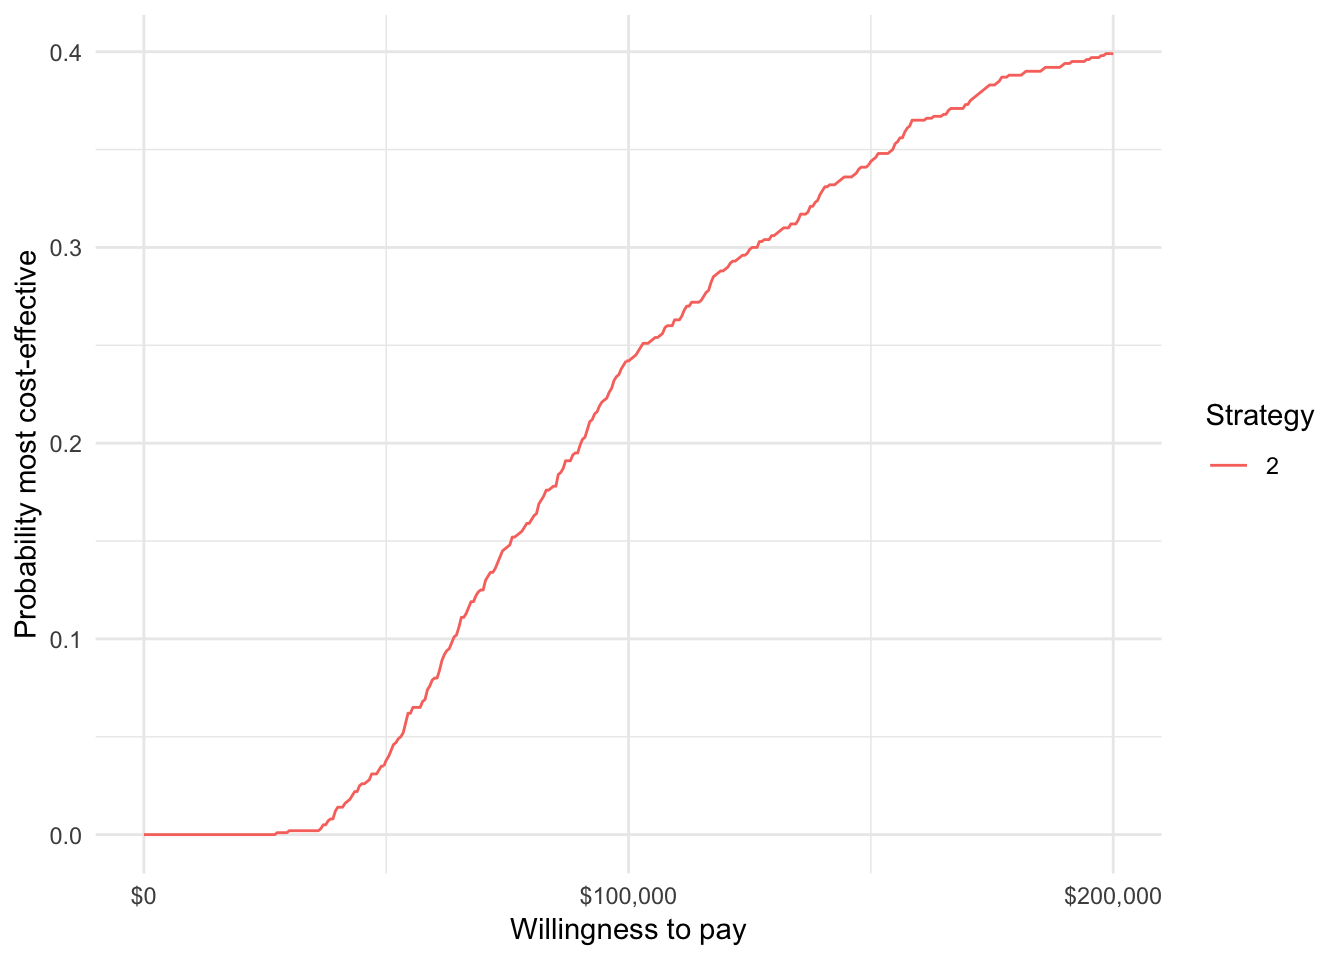
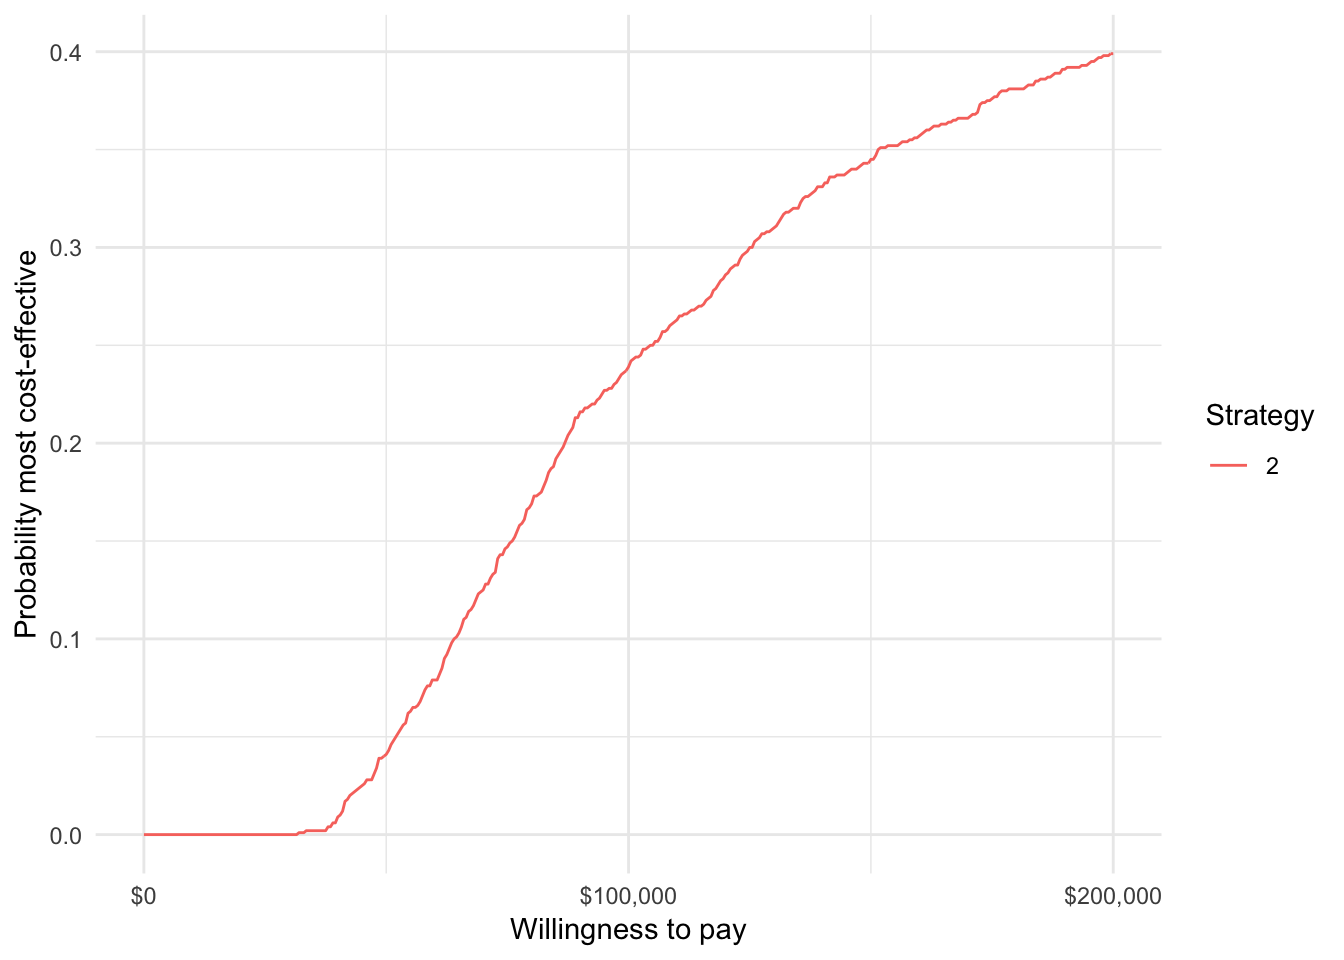
Update URLs in vignettes

diff --git a/docs/articles/intro.html b/docs/articles/intro.html
@@ -87,7 +87,7 @@
       <h1>Introduction to <code>hesim</code>
 </h1>
             
-            <h4 class="date">2019-03-24</h4>
+            <h4 class="date">2019-03-26</h4>
       
       <small class="dont-index">Source: <a href="https://github.com/InnovationValueInitiative/hesim/blob/master/vignettes/intro.Rmd"><code>vignettes/intro.Rmd</code></a></small>
       <div class="hidden name"><code>intro.Rmd</code></div>
@@ -160,17 +160,17 @@ hesim_dat &lt;-<span class="st"> </span><span class="kw"><a href="../reference/h
 ## 
 ## $patients
 ##       patient_id      age female
-##    1:          1 49.49352      1
-##    2:          2 64.68441      1
-##    3:          3 39.82628      0
-##    4:          4 55.91968      0
-##    5:          5 40.66639      0
+##    1:          1 42.76025      1
+##    2:          2 37.56509      0
+##    3:          3 32.25874      1
+##    4:          4 50.32178      1
+##    5:          5 42.50952      0
 ##   ---                           
-##  996:        996 50.70210      1
-##  997:        997 44.23524      1
-##  998:        998 61.75899      0
-##  999:        999 55.09298      1
-## 1000:       1000 52.07646      0
+##  996:        996 46.45157      0
+##  997:        997 48.18178      0
+##  998:        998 52.35091      0
+##  999:        999 41.31097      0
+## 1000:       1000 51.02729      0
 ## 
 ## $states
 ##    state_id state_name
@@ -220,7 +220,7 @@ hesim_dat &lt;-<span class="st"> </span><span class="kw"><a href="../reference/h
 </tr>
 </tbody>
 </table>
-<p>The easiest way to parameterize a disease model is by fitting a statistical model using <code>R</code>. For example, survival models for PSMs and multi-state models for iCTSTMs can be fit using <code><a href="https://www.rdocumentation.org/packages/flexsurv/topics/flexsurvreg">flexsurvreg()</a></code>. A multi-state model can either be fit as a single model with a joint likelihood (a <code>flexsurvreg</code> object) or as a list of transition-specific models (a <code>flexsurvreg_list</code> object) (see <a href="https://cran.r-project.org/web/packages/flexsurv/vignettes/flexsurv.pdf">Section 6 from the flexsurv vignette</a> for details). Likewise, a list of survival models for a PSM are stored as a <code>flexsurvreg_list</code> object.</p>
+<p>The easiest way to parameterize a disease model is by fitting a statistical model using <code>R</code>. For example, survival models for PSMs and multi-state models for iCTSTMs can be fit using <code><a href="https://www.rdocumentation.org/packages/flexsurv/topics/flexsurvreg">flexsurvreg()</a></code>. A multi-state model can either be fit as a single model with a joint likelihood (a <code>flexsurvreg</code> object) or as a list of transition-specific models (a <code>flexsurvreg_list</code> object) (see <a href="https://CRAN.R-project.org/package=flexsurv/vignettes/flexsurv.pdf">Section 6 from the flexsurv vignette</a> for details). Likewise, a list of survival models for a PSM are stored as a <code>flexsurvreg_list</code> object.</p>
 <p>In other cases, the disease models will not be fit directly with R (for instance, when performing a network meta-analysis). In these cases, the estimates of a disease model can be directly stored in objects prefixed by “params_”. When a single survival model or a multi-state model with a joint likelihood is fit, parameters are stored in <code>params_surv</code> objects; when multiple independent survival or multi-state models with transition specific fits are used, parameters are stored in <code>params_surv_list</code> objects.</p>
 <p>We will illustrate using the first approach, by estimating a multi-state model with a joint likelihood using <code><a href="https://www.rdocumentation.org/packages/flexsurv/topics/flexsurvreg">flexsurvreg()</a></code>.</p>
 <div class="sourceCode"><pre class="sourceCode r"><code class="sourceCode r"><span class="kw"><a href="https://www.rdocumentation.org/packages/base/topics/library">library</a></span>(<span class="st">"flexsurv"</span>)
@@ -317,12 +317,12 @@ medcost_tbl &lt;-<span class="st"> </span><span class="kw"><a href="../reference
                         <span class="dt">by =</span> <span class="kw"><a href="https://www.rdocumentation.org/packages/base/topics/c">c</a></span>(<span class="st">"strategies"</span>, <span class="st">"patients"</span>, <span class="st">"transitions"</span>))
 <span class="kw"><a href="https://www.rdocumentation.org/packages/utils/topics/head">head</a></span>(transmod_data)</code></pre></div>
 <pre><code>##    strategy_id patient_id transition_id      age female from to from_name
-## 1:           1          1             1 49.49352      1    1  2   Healthy
-## 2:           1          1             2 49.49352      1    1  3   Healthy
-## 3:           1          1             3 49.49352      1    2  1      Sick
-## 4:           1          1             4 49.49352      1    2  3      Sick
-## 5:           1          2             1 64.68441      1    1  2   Healthy
-## 6:           1          2             2 64.68441      1    1  3   Healthy
+## 1:           1          1             1 42.76025      1    1  2   Healthy
+## 2:           1          1             2 42.76025      1    1  3   Healthy
+## 3:           1          1             3 42.76025      1    2  1      Sick
+## 4:           1          1             4 42.76025      1    2  3      Sick
+## 5:           1          2             1 37.56509      0    1  2   Healthy
+## 6:           1          2             2 37.56509      0    1  3   Healthy
 ##    to_name trans
 ## 1:    Sick     1
 ## 2:    Dead     2
@@ -397,43 +397,43 @@ costmods &lt;-<span class="st"> </span><span class="kw"><a href="https://www.rdo
 <div class="sourceCode"><pre class="sourceCode r"><code class="sourceCode r">ictstm<span class="op">$</span><span class="kw">sim_disease</span>()
 <span class="kw"><a href="https://www.rdocumentation.org/packages/utils/topics/head">head</a></span>(ictstm<span class="op">$</span>disprog_)</code></pre></div>
 <pre><code>##    sample strategy_id patient_id from to final time_start time_stop
-## 1:      1           1          1    1  2     0   0.000000  4.733377
-## 2:      1           1          1    2  1     0   4.733377  6.025118
-## 3:      1           1          1    1  2     0   6.025118 11.333617
-## 4:      1           1          1    2  3     1  11.333617 12.630350
-## 5:      1           1          2    1  2     0   0.000000  1.865386
-## 6:      1           1          2    2  1     0   1.865386  2.659183</code></pre>
+## 1:      1           1          1    1  2     0   0.000000 13.707582
+## 2:      1           1          1    2  1     0  13.707582 16.652392
+## 3:      1           1          1    1  3     1  16.652392 26.069791
+## 4:      1           1          2    1  2     0   0.000000  2.030759
+## 5:      1           1          2    2  1     0   2.030759  3.300109
+## 6:      1           1          2    1  2     0   3.300109 17.133846</code></pre>
 <p>The disease trajectory can be summarized with <code>$sim_stateprobs()</code>.</p>
 <div class="sourceCode"><pre class="sourceCode r"><code class="sourceCode r">ictstm<span class="op">$</span><span class="kw">sim_stateprobs</span>(<span class="dt">t =</span> <span class="kw"><a href="https://www.rdocumentation.org/packages/base/topics/c">c</a></span>(<span class="dv">0</span><span class="op">:</span><span class="dv">10</span>))
 <span class="kw"><a href="https://www.rdocumentation.org/packages/utils/topics/head">head</a></span>(ictstm<span class="op">$</span>stateprobs_)</code></pre></div>
 <pre><code>##    sample strategy_id state_id t  prob
 ## 1:      1           1        1 0 1.000
-## 2:      1           1        1 1 0.871
-## 3:      1           1        1 2 0.758
-## 4:      1           1        1 3 0.687
-## 5:      1           1        1 4 0.621
-## 6:      1           1        1 5 0.577</code></pre>
+## 2:      1           1        1 1 0.875
+## 3:      1           1        1 2 0.784
+## 4:      1           1        1 3 0.717
+## 5:      1           1        1 4 0.661
+## 6:      1           1        1 5 0.600</code></pre>
 <p>We can then compute costs and QALYs (using a discount rate of 3 percent).</p>
 <div class="sourceCode"><pre class="sourceCode r"><code class="sourceCode r"><span class="co"># QALYs</span>
 ictstm<span class="op">$</span><span class="kw">sim_qalys</span>(<span class="dt">dr =</span> .<span class="dv">03</span>)
 <span class="kw"><a href="https://www.rdocumentation.org/packages/utils/topics/head">head</a></span>(ictstm<span class="op">$</span>qalys_)</code></pre></div>
-<pre><code>##    sample strategy_id state_id   dr    qalys      lys
-## 1:      1           1        1 0.03 7.644277 8.871848
-## 2:      1           1        2 0.03 1.679980 1.862931
-## 3:      1           2        1 0.03 8.004139 9.289499
-## 4:      1           2        2 0.03 1.419479 1.574061
-## 5:      2           1        1 0.03 6.054470 9.108025
-## 6:      2           1        2 0.03 1.551556 1.945530</code></pre>
+<pre><code>##    sample strategy_id state_id   dr    qalys       lys
+## 1:      1           1        1 0.03 3.983777  8.540493
+## 2:      1           1        2 0.03 1.757279  1.757279
+## 3:      1           2        1 0.03 4.742779 10.167656
+## 4:      1           2        2 0.03 1.365992  1.365992
+## 5:      2           1        1 0.03 6.316758  9.284137
+## 6:      2           1        2 0.03 1.974544  1.976647</code></pre>
 <div class="sourceCode"><pre class="sourceCode r"><code class="sourceCode r"><span class="co"># Costs</span>
 ictstm<span class="op">$</span><span class="kw">sim_costs</span>(<span class="dt">dr =</span> .<span class="dv">03</span>)
 <span class="kw"><a href="https://www.rdocumentation.org/packages/utils/topics/head">head</a></span>(ictstm<span class="op">$</span>costs_)</code></pre></div>
-<pre><code>##    sample strategy_id state_id   dr category     costs
-## 1:      1           1        1 0.03    drugs 44359.241
-## 2:      1           1        2 0.03    drugs  9314.656
-## 3:      1           2        1 0.03    drugs 92894.991
-## 4:      1           2        2 0.03    drugs 15740.614
-## 5:      2           1        1 0.03    drugs 45540.125
-## 6:      2           1        2 0.03    drugs  9727.648</code></pre>
+<pre><code>##    sample strategy_id state_id   dr category      costs
+## 1:      1           1        1 0.03    drugs  42702.467
+## 2:      1           1        2 0.03    drugs   8786.394
+## 3:      1           2        1 0.03    drugs 101676.556
+## 4:      1           2        2 0.03    drugs  13659.923
+## 5:      2           1        1 0.03    drugs  46420.684
+## 6:      2           1        2 0.03    drugs   9883.234</code></pre>
 </div>
 </div>
 <div id="decision-analysis" class="section level1">
@@ -445,31 +445,31 @@ ictstm<span class="op">$</span><span class="kw">sim_costs</span>(<span class="dt
 <span class="kw"><a href="https://www.rdocumentation.org/packages/base/topics/print">print</a></span>(ce)</code></pre></div>
 <pre><code>## $costs
 ##       category   dr sample strategy_id     costs
-##    1:    drugs 0.03      1           1  53673.90
-##    2:    drugs 0.03      1           2 108635.60
-##    3:    drugs 0.03      2           1  55267.77
-##    4:    drugs 0.03      2           2 102673.07
-##    5:    drugs 0.03      3           1  62213.09
+##    1:    drugs 0.03      1           1  51488.86
+##    2:    drugs 0.03      1           2 115336.48
+##    3:    drugs 0.03      2           1  56303.92
+##    4:    drugs 0.03      2           2 111069.85
+##    5:    drugs 0.03      3           1  58225.89
 ##   ---                                           
-## 5996:    total 0.03    998           2 125566.32
-## 5997:    total 0.03    999           1  61374.69
-## 5998:    total 0.03    999           2 129972.85
-## 5999:    total 0.03   1000           1  69962.69
-## 6000:    total 0.03   1000           2 125644.10
+## 5996:    total 0.03    998           2 153077.75
+## 5997:    total 0.03    999           1  56743.85
+## 5998:    total 0.03    999           2 114048.14
+## 5999:    total 0.03   1000           1  66915.17
+## 6000:    total 0.03   1000           2 119714.67
 ## 
 ## $qalys
-##         dr sample strategy_id    qalys
-##    1: 0.03      1           1 9.324257
-##    2: 0.03      1           2 9.423618
-##    3: 0.03      2           1 7.606027
-##    4: 0.03      2           2 6.968248
-##    5: 0.03      3           1 8.556401
-##   ---                                 
-## 1996: 0.03    998           2 4.998347
-## 1997: 0.03    999           1 7.744182
-## 1998: 0.03    999           2 8.910678
-## 1999: 0.03   1000           1 7.155014
-## 2000: 0.03   1000           2 6.829991
+##         dr sample strategy_id     qalys
+##    1: 0.03      1           1  5.741056
+##    2: 0.03      1           2  6.108771
+##    3: 0.03      2           1  8.291301
+##    4: 0.03      2           2  7.946778
+##    5: 0.03      3           1  9.409298
+##   ---                                  
+## 1996: 0.03    998           2 10.890711
+## 1997: 0.03    999           1  5.018294
+## 1998: 0.03    999           2  5.489280
+## 1999: 0.03   1000           1  6.771022
+## 2000: 0.03   1000           2  6.583756
 ## 
 ## attr(,"class")
 ## [1] "ce"</code></pre>

diff --git a/docs/articles/psm.html b/docs/articles/psm.html
@@ -86,7 +86,7 @@
     <div class="page-header toc-ignore">
       <h1>Partitioned survival models</h1>
             
-            <h4 class="date">2019-03-24</h4>
+            <h4 class="date">2019-03-26</h4>
       
       <small class="dont-index">Source: <a href="https://github.com/InnovationValueInitiative/hesim/blob/master/vignettes/psm.Rmd"><code>vignettes/psm.Rmd</code></a></small>
       <div class="hidden name"><code>psm.Rmd</code></div>
@@ -211,7 +211,7 @@ psfit_wei &lt;-<span class="st"> </span><span class="kw"><a href="../reference/f
 <div id="constructing-the-economic-model" class="section level2">
 <h2 class="hasAnchor">
 <a href="#constructing-the-economic-model" class="anchor"></a><span class="header-section-number">4.1</span> Constructing the economic model</h2>
-<p>A PSM in <code>hesim</code> is an <a href="https://cran.r-project.org/web/packages/R6/">R6</a> object of class <code>Psm</code> and comprises of three separate submodels: (1) a set of survival models for generating survival curves (of class <code>PsmCurves</code>), (2) a utility model (of class <code>StateVals</code>), and (3) a set of cost models for each cost component (a list of <code>StateVals</code> objects). Since analyses in <code>hesim</code> are, by default, based on sampled values of the parameters from their joint posterior distribution in order to facilitate probabilistic sensitivity analysis (PSA), we will specify the number of sampled parameter sets that are desired.</p>
+<p>A PSM in <code>hesim</code> is an <a href="https://r6.r-lib.org/index.html">R6</a> object of class <code>Psm</code> and comprises of three separate submodels: (1) a set of survival models for generating survival curves (of class <code>PsmCurves</code>), (2) a utility model (of class <code>StateVals</code>), and (3) a set of cost models for each cost component (a list of <code>StateVals</code> objects). Since analyses in <code>hesim</code> are, by default, based on sampled values of the parameters from their joint posterior distribution in order to facilitate probabilistic sensitivity analysis (PSA), we will specify the number of sampled parameter sets that are desired.</p>
 <div class="sourceCode"><pre class="sourceCode r"><code class="sourceCode r">n_samples &lt;-<span class="st"> </span><span class="dv">100</span></code></pre></div>
 <div id="survival-models-1" class="section level3">
 <h3 class="hasAnchor">
